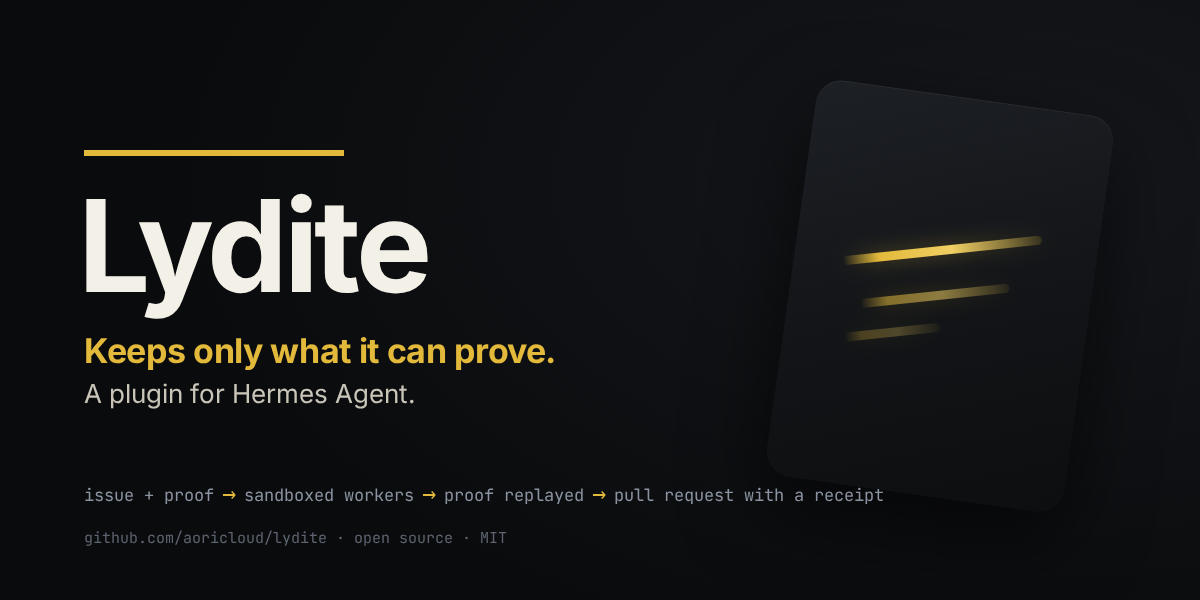
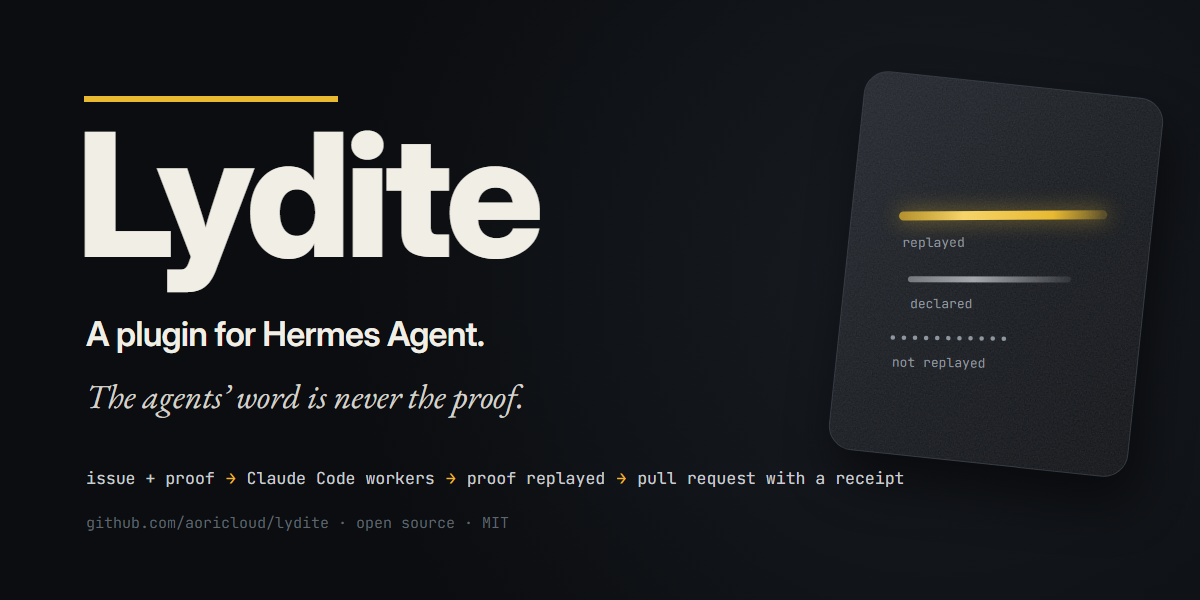
hermes-readme

diff --git a/hermes/README.md b/hermes/README.md
@@ -1,6 +1,6 @@
 # lydite: a Hermes plugin
 
-![Lydite, a plugin for Hermes Agent: issue and proof, workers (their commands sandboxed under a required wall), proof replayed, pull request with a receipt](docs/banner.png)
+![Lydite, a plugin for Hermes Agent. The agents' word is never the proof. Issue + proof, Claude Code workers, proof replayed, pull request with a receipt. A touchstone with three strokes: replayed, declared, not replayed](docs/banner.png)
 
 This plugin is a launcher. The engine is [Lydite](https://github.com/aoricloud/lydite), an open-source program (Rust,
 MIT) that you install separately, from a release whose binary is built and attested by GitHub Actions.
@@ -14,17 +14,20 @@ to the repository, its humans and its own merge rules.
 
 ## What comes back
 
-A real one: [mycelium-lab#55](https://github.com/aoricloud/mycelium-lab/pull/55), the fix of issue #53 of a public
-Rust simulator, started from a Hermes chat. Its receipt says two workers, no retry, the proof replayed green,
-and the commit that was reviewed and replayed. That repository merges a green pull request by its own
-workflow, which is why GitHub shows it merged by `github-actions[bot]`.
+A real one: [lydite#169](https://github.com/aoricloud/lydite/pull/169), "Prepare v0.5.0", on Lydite's own
+repository. A wave of Lydite opened it, launched from a shell, not from a Hermes chat; the receipt is the same through
+the plugin, which only starts `lydite lancer`, and Lydite writes the receipt. It says three hands, no retry, nothing
+set aside, the proof replayed green, the review (3 remarks, none blocking) and the commit that was reviewed and
+replayed, 2d5b52f, the head of the first wave: the branch then received a fix pull request, and the merged head is
+another commit. Its owner, a human, merged it: 14 commits into `main`.
 
-![The pull request mycelium-lab#55 written by Lydite: its receipt, the proof replayed green, and the commit that was reviewed and replayed](docs/screenshot-receipt.png)
+![The pull request lydite#169 written by Lydite, merged by its owner: its receipt (cost, 3 hands, 0 retries, 0 set aside, efforts, sealed thread, proof settings changed), the objective, the proof replayed green, two task lines in French because the plan was, the review (3 remarks, 0 blocking) and the commit reviewed and replayed, 2d5b52f](docs/screenshot-receipt.png)
 
 ## Before you start (about an hour)
 
-- **Linux.** Lydite's wall holds there only: the tools appear under Linux only, whatever the architecture (the plugin
-  checks the system, not the processor). The attested Lydite binary is for Linux x86-64.
+- **Linux.** We have run Lydite's wall on Linux only: the tools appear under Linux only, whatever the architecture (the
+  plugin checks the system, not the processor). The release has an attested Lydite binary for Linux x86-64, and one for
+  Windows x86-64, under which these tools do not appear.
 - **The `lydite` binary**, from an attested release: this plugin lives in Lydite's repository and goes with the binary
   of the same release. **This plugin ships and downloads no binary.**
 
@@ -56,10 +59,10 @@ with the id).
 
 | Tool | What it does |
 | --- | --- |
-| `lydite_lancer` | Starts `lydite lancer <profile> --issue <n> --decouper --verifier "<proof>" --depot <repo> --pr main` in the background and returns with an id: it first waits up to 3 seconds for an immediate refusal from Lydite, which is then in the answer, else at the end of the launch's log (`lydite_etat` with the id) (Lydite 0.5 still reads those French words as doubles of its English ones: `lydite launch ... --split --verify ...`). Also takes `objective` (instead of `issue`), `plan` (instead of both: a plan file written by hand, with its own models, files and `preuve :` line; see below), `profile`, `pr`, and `observe` (the hand that splits the work runs, then the plan is shown; no wave is built). |
+| `lydite_lancer` | Starts `lydite lancer <profile> --issue <n> --decouper --verifier "<proof>" --depot <repo> --pr main` in the background and returns with an id: it first waits up to 3 seconds for an immediate refusal from Lydite, which is then in the answer, else at the end of the launch's log (`lydite_etat` with the id) (Lydite 0.5 still reads those French words as doubles of its English ones: `lydite launch ... --split --verify ...`). Also takes `objective` (instead of `issue`), `plan` (instead of both: a plan file written by hand, with its own models, files and `preuve :` line; see below; a plan that places files, with `place` lines, is refused before the prompt and without starting Lydite: launch it from a shell), `profile`, `pr`, and `observe` (the hand that splits the work runs, then the plan is shown; no wave is built). |
 | `lydite_etat` | Returns `lydite etat` (what Lydite itself recorded: tasks, proofs, pull request, CI) and the launches made from this plugin, with the end of a launch's log when given its `id`. |
-| `lydite_lecons` | Returns the lessons of a repository: the written rules Lydite learned there from past mistakes and gives to its workers, one per folder under `.agents/skills/<name>/SKILL.md`. Without `name`, the list of each lesson's name, rule and files; with `name`, one lesson in full. It is read-only, and Lydite checks the lessons first. Nothing is approved, because nothing is started or written. |
-| `lydite_plan` | Runs `lydite plan <file>` on a plan file and returns what Lydite accepts or refuses, and why: the plan's SHA-256, its number of tasks, its proof line and the tasks that will wait for one another because they share a file, or Lydite's refusal (its code, its rule, what was seen, the fix). It starts nothing and costs nothing, so nothing is approved: use it to fix a plan with the human before approving a launch. |
+| `lydite_lecons` | Returns the lessons of a repository: the written rules kept in the repository, each from a past mistake, which Lydite gives to its workers, one per folder under `.agents/skills/<name>/SKILL.md`. Without `name`, the list of each lesson's name, rule and files; with `name`, one lesson in full. It is read-only, and Lydite checks the lessons first. Nothing is approved, because nothing is started or written. |
+| `lydite_plan` | Runs `lydite plan <file>` on a plan file and returns what Lydite accepts or refuses, and why: the plan's SHA-256, its number of tasks, its proof line and the tasks that will wait for one another because they share a file, or Lydite's refusal (its code, its rule, what was seen, the fix). It starts nothing and costs nothing, so nothing is approved: use it to fix a plan with the human before approving a launch. It refuses, without running Lydite, a plan that places files (`place` lines): see `lydite_lancer`. |
 | `lydite_findings` | Runs `lydite findings` (read-only, and nothing else) on a hermes-security findings export (JSON, `1.0`) and turns it into Lydite plans. It needs a Lydite binary that has `lydite findings`, newer than 0.4.0. Without `ids`, it lists the findings Lydite can take and the ones it sets aside, each with the reason (the plugin also sets aside a finding that cites a file which is not in the repository). With `ids` (from 1 to 12) and `proof`, it writes one plan file per chosen finding, as Lydite wrote it, under the plugin's data folder (mode 0600), and starts nothing, so nothing is approved. It saves a plan only if its header carries the `report` line of that scan and finding. It is launched like any plan, with `lydite_lancer`, after the human's approval; Lydite refuses a plan that carries the `report` line unless the profile requires the wall (6037; see below). |
 
 It also ships one skill, `lydite:driving-lydite`, in the open `SKILL.md` format with only its common fields (`name`, `description`, `license`, `compatibility`), so
@@ -67,10 +70,11 @@ Claude Code can read it too. It tells the model when to hand a job to Lydite, wh
 repository, the work, your proof), how to read what `lydite_etat` returns (what Lydite observed against what a worker
 only declared; what the cost line means), and to quote a refusal and stop rather than redo the work itself. Hermes
 lists it for the model while the plugin is enabled, on Linux, and does not copy it into `~/.hermes/skills/`. The Lydite
-binary carries the same skill, and `lydite skill` writes it, for an agent outside Hermes.
+binary carries the same skill, and `lydite skill` prints it, for an agent outside Hermes.
 
-The workers are **Claude Code sessions that Lydite starts itself**, on the model and provider of the Lydite profile
-(for example a DeepSeek endpoint). They are never Hermes agents or subagents: the plugin starts only `lydite`, and
+The workers are **Claude Code sessions that Lydite starts itself**, on the models that the plan and the Lydite profile
+name, at the profile's provider (for example a DeepSeek endpoint; a profile can send its reviewer to Anthropic
+instead). They are never Hermes agents or subagents: the plugin starts only `lydite`, and
 Lydite starts the workers.
 
 ### With hermes-security
@@ -99,8 +103,8 @@ The titles and claims of a report are text written by someone else. They enter t
 data, bounded and on one line. The plan that `lydite_findings` writes carries its origin, a `report` line, and Lydite
 itself refuses a plan that carries that line (6037) unless the profile requires the wall. That is all that holds: a plan
 whose `report` line was removed, or one written by hand from a report, goes as a plan written by hand, and the human's
-reading of the plan before approving is what holds. The approval message says the origin of a plan, `report <scan>
-<id>` or `none (written by hand)`. To use a plan that carries the line, put `mur = exige` in the profile, and have a
+reading of the plan before approving is what holds. The approval message says the origin of a plan, `report <finding
+id>` or `none (written by hand)`. To use a plan that carries the line, put `mur = exige` in the profile, and have a
 human run `lydite accept <name>`; or use another profile.
 
 ### Names still in French
@@ -158,7 +162,7 @@ Hermes shows at most ten rows of an approval, and the plugin's message holds in 
 proof, the profile and the target branch (with `observe`, the branch row says `plan only`). A plan file is shown by its
 name, its size, its number of tasks, its origin, its proof line and the SHA-256 of its bytes; Lydite runs those exact
 bytes, and the launch is refused if the file changed since it was shown. Read the plan file before you approve: Hermes shows its name and its SHA-256, not its text. Check it
-with `sha256sum <file>` to see the bytes Lydite will run. Hermes waits for your approval before anything starts.
+with `sha256sum <file>` to see the bytes Lydite will run. Hermes waits for your approval before anything starts, unless it skips the prompt (see Approvals below).
 
 ![The Hermes approval box for a Lydite launch: the repository, the issue, the proof command in full and the profile, shown before anything starts](docs/screenshot-approval.png)
 
@@ -184,6 +188,9 @@ hermes config set tools.tool_search.enabled off
 ## Limits, said plainly
 
 - Linux only. On Windows the wall is not held by Lydite; the tools do not appear.
+- A plan that places files (`place` lines) cannot be launched through the plugin: it launches a copy of the plan
+  without its `.files` folder, so it refuses such a plan before asking. Launch it with `lydite launch <profile> --plan
+  <file> --repo <repo> --pr <branch>` from a shell.
 - Lydite's proof is only as good as your command: a test that is wrong is replayed as faithfully as one that is right.
 - A plan born from a report is held to a required wall only while it carries the `report` line that `lydite_findings`
   writes (Lydite refuses it otherwise, 6037). A plan whose line was removed, or written by hand from a report, goes as
@@ -204,36 +211,42 @@ hermes config set tools.tool_search.enabled off
   same closed list; with `--plan <id> --verify <proof>` it writes a plan on its standard output, which the plugin saves;
   it starts no wave). The plugin starts these French words; Lydite 0.5
   still reads them as doubles of its English ones (`launch`, `status`, `lessons`). Lydite in turn runs `git`, `gh` and the `claude`
-  process on the host, with your GitHub login; only the commands of a hand run in Claude Code's sandbox, and the proof
+  process on the host, with your `gh` login and your `git` credentials; only the commands of a hand run in Claude Code's sandbox, and the proof
   command is replayed in the wall (by srt under `mur = exige`, by Lydite's native wall under `mur = natif`); those are
   Lydite's, documented in its README.
 - **A requested wall.** A profile accepted with `mur = demande` leaves this: the commands of a hand may run outside
   Claude Code's sandbox and see the provider's key if there is one, and the proof is replayed on the host, outside the
   wall. A required wall (`exige`, the default, or `natif`) is required for `--issue` and, by Lydite's refusal 6037,
   for a plan that carries the `report` line that `lydite_findings` writes; a plan without that line is not held to it.
-- **Network.** The plugin makes no network call itself. Lydite and its workers do: the model provider named in the
-  profile, and GitHub (through `gh`) for the issue, the push and the pull request. Nothing is sent anywhere else, and
-  there is no telemetry.
+- **Network.** The plugin makes no network call itself. Lydite and its workers do: the profile's model provider (its
+  reviewer, Anthropic, if the profile carries `api_relecteur = anthropic`), GitHub (through `gh` and through `git`,
+  which pushes) for the issue, the push and the pull request, and whatever the accepted profile opens to the workers:
+  the domains of `reseau`, tools such as WebSearch, MCP servers. The plugin and Lydite send no telemetry; Claude Code,
+  `gh` and `git` are separate programs with their own settings.
 - **Long-running process.** `lydite_lancer` starts one detached `lydite lancer` process (its own session, so it
   survives Hermes) that can run for minutes to hours. At most one per Lydite folder from this plugin. It writes its
   output to a log file under the plugin's data folder (the one Hermes gives the plugin, or, without it,
-  `<temporary folder>/lydite`; the last 20 launches are kept).
+  `<temporary folder>/lydite`; the last 20 launches are kept). After opening the pull request, Lydite waits for its CI
+  up to 30 minutes; if it is red, it may launch one more wave on that branch, only one, whose head is not reviewed,
+  unless a task of the wave is critical: then none.
 - **Secrets.** Only through Hermes: `get_secret("LYDITE_CLE_FOURNISSEUR")`, passed in the environment of the
-  Lydite process under the variable named by `cle_nom`, and in no log, argument, state or tool result. The plugin
-  never reads `.env`, `auth.json` or any key file.
+  Lydite process under the variable named by `cle_nom`; the plugin writes it in no log, argument, state or tool
+  result. The plugin never reads `.env`, `auth.json` or any key file.
 - **Environment.** The Lydite process gets a closed list of variables (`PATH`, `HOME`, `LANG`, the `LYDITE_*` paths of
   the binary, `GH_CONFIG_DIR`, `CLAUDE_CONFIG_DIR`, ...), not the rest of Hermes' environment. Started from Hermes,
   the native wall takes `bwrap` from `LYDITE_BWRAP` or the `PATH`, and `lydite-reseau` from `LYDITE_RESEAU` or next
   to the `lydite` binary; the plugin passes these two variables, as it passes `LYDITE_SRT`.
 - **Approvals.** A `pre_tool_call` hook sends every `lydite_lancer` call to Hermes' human approval: at most ten rows,
-  the plugin's message holding in nine, with the exact repository, work, proof, profile and target branch (`plan only`
-  instead of the branch with `observe`). A plan is
-  shown by its file name, its size, its number of tasks, its origin (`report <scan> <id>` if its header carries a
+  the plugin's message holding in nine, with the repository, work, proof, profile and target branch (`plan only`
+  instead of the branch with `observe`); a long value is cut with a `…`, the repository at its start. A plan is
+  shown by its file name, its size, its number of tasks, its origin (`report <finding id>` if its header carries a
   well-formed `report` line, else `none (written by hand)`), its proof line and the SHA-256 of its bytes, not its text.
   A request that would be refused anyway is answered without asking. "Always" only covers the same repository, profile,
   issue, objective, target branch, mode (a dry run with `observe` or a real launch) and proof (or the same plan
-  bytes). Nothing here disables a guard or reads the YOLO mode; in an unattended run
-  Hermes' gate fails closed.
+  bytes). The plugin disables no guard and does
+  not read Hermes' approval settings. Hermes itself skips the prompt in yolo mode, with `approvals.mode: off`, in
+  a `hermes -z` one-shot, in an unattended run set to approve, and for a request already allowed with "always". (Read
+  in Hermes 0.23.3, `tools/approval.py`, line 1231 and lines 1255 to 1275, outside this repository.)
 - **Files.** Reads nothing outside its own data folder except its own `skills/driving-lydite/SKILL.md` (when it
   registers the skill), what the Lydite binary reports, `/proc/<pid>/cmdline` of a launch it made (to tell whether that
   launch still runs), the `plan` file named in a `lydite_lancer` call (to
